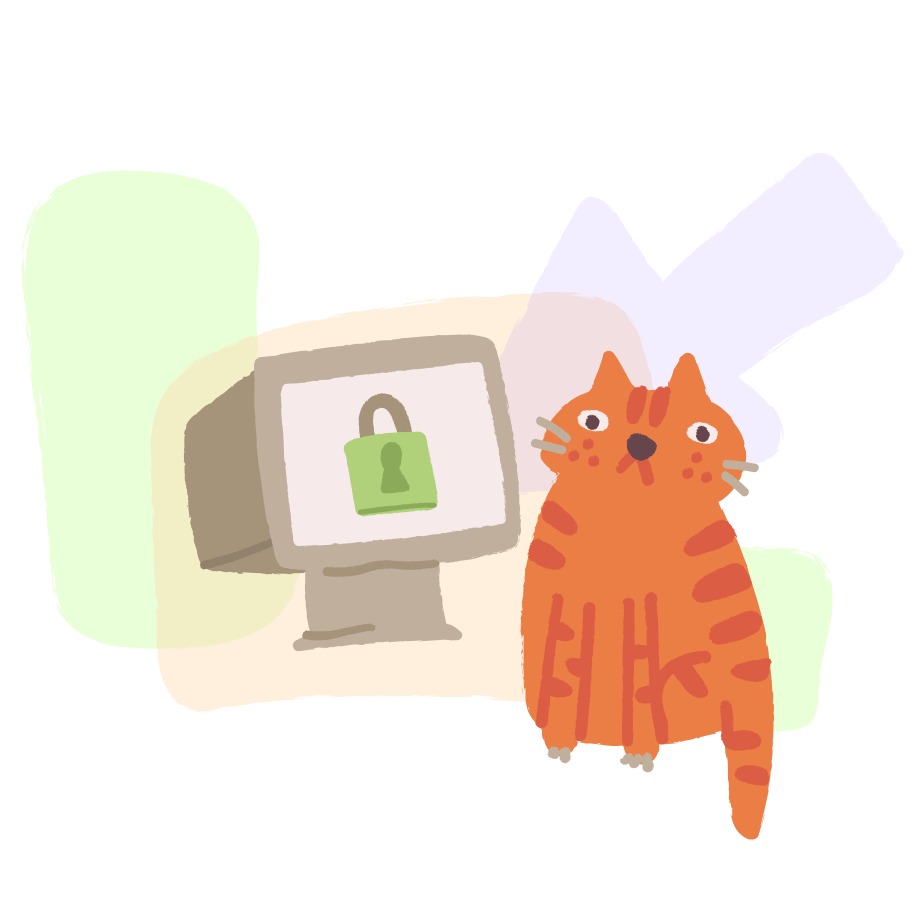
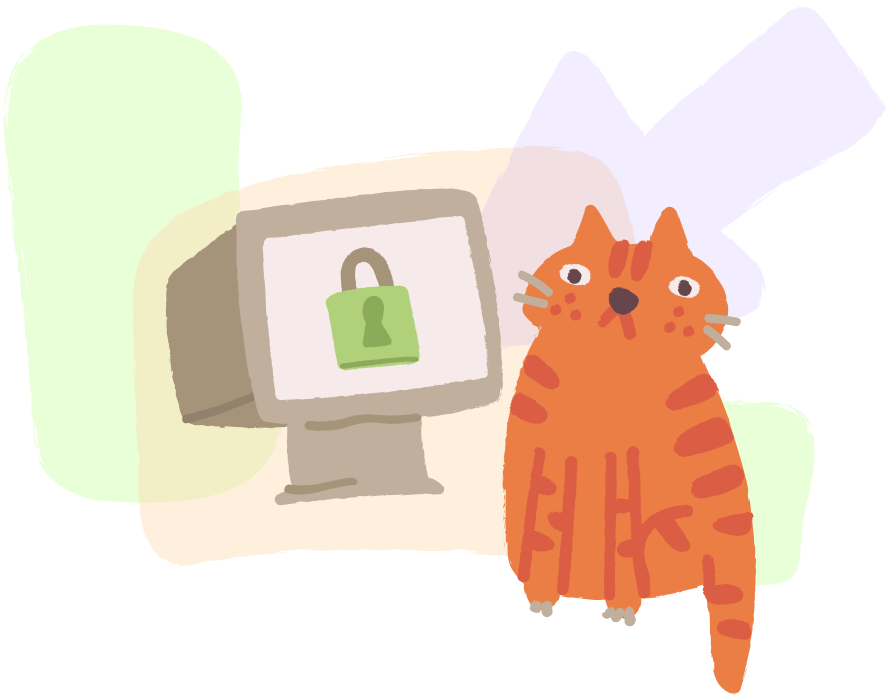
Signup Screen Ready

Changed region(s): [[0.0, 0.0302, 0.9122, 0.9957], [0.9122, 0.6336, 0.9426, 0.694], [0.6993, 0.6336, 0.7297, 0.6638]]

diff --git a/lib/screens/auth/Signup.dart b/lib/screens/auth/Signup.dart
@@ -1,0 +1,143 @@
+import 'package:flutter/gestures.dart';
+import 'package:flutter/material.dart';
+
+class Signup extends StatefulWidget {
+  @override
+  _SignupState createState() => _SignupState();
+}
+
+class _SignupState extends State<Signup> {
+  TextStyle defaultStyle = TextStyle(color: Colors.grey, fontSize: 15.0);
+  TextStyle linkStyle = TextStyle(color: Colors.orange);
+
+  @override
+  Widget build(BuildContext context) {
+    return Scaffold(
+      body: Container(
+        padding: EdgeInsets.symmetric(vertical: 20, horizontal: 30),
+        child: Column(
+          crossAxisAlignment: CrossAxisAlignment.start,
+          mainAxisAlignment: MainAxisAlignment.center,
+          children: <Widget>[
+            Text(
+              'Create Your Account ',
+              style: TextStyle(fontWeight: FontWeight.bold, fontSize: 30),
+            ),
+            SizedBox(
+              height: 10,
+            ),
+            Text(
+              'Sign up and get started',
+              style: TextStyle(fontWeight: FontWeight.w300, fontSize: 15),
+            ),
+            SizedBox(
+              height: 20,
+            ),
+            Center(
+              child: Image(
+                image: AssetImage('assets/images/signup.png'),
+                height: 300,
+              ),
+            ),
+            TextFormField(
+              decoration: InputDecoration(
+                icon: Icon(
+                  Icons.person,
+                  color: Colors.orange,
+                ),
+                labelText: "Name",
+                labelStyle: TextStyle(color: Colors.grey),
+                focusedBorder: UnderlineInputBorder(
+                  borderSide: BorderSide(color: Colors.orange),
+                ),
+              ),
+            ),
+            SizedBox(
+              height: 10,
+            ),
+            TextFormField(
+              decoration: InputDecoration(
+                icon: Icon(
+                  Icons.email,
+                  color: Colors.orange,
+                ),
+                labelText: "Email",
+                labelStyle: TextStyle(color: Colors.grey),
+                focusedBorder: UnderlineInputBorder(
+                  borderSide: BorderSide(color: Colors.orange),
+                ),
+              ),
+            ),
+            SizedBox(
+              height: 10,
+            ),
+            TextFormField(
+              obscureText: true,
+              decoration: InputDecoration(
+                icon: Icon(
+                  Icons.code,
+                  color: Colors.orange,
+                ),
+                labelText: 'Password',
+                labelStyle: TextStyle(color: Colors.grey),
+                focusedBorder: UnderlineInputBorder(
+                  borderSide: BorderSide(color: Colors.orange),
+                ),
+              ),
+            ),
+            SizedBox(
+              height: 10,
+            ),
+            TextFormField(
+              obscureText: true,
+              decoration: InputDecoration(
+                icon: Icon(
+                  Icons.code,
+                  color: Colors.orange,
+                ),
+                labelText: 'Confirm Password',
+                labelStyle: TextStyle(color: Colors.grey),
+                focusedBorder: UnderlineInputBorder(
+                  borderSide: BorderSide(color: Colors.orange),
+                ),
+              ),
+            ),
+            SizedBox(
+              height: 20,
+            ),
+            Center(
+              child: RaisedButton(
+                onPressed: () {},
+                child: Text(
+                  "Sign up",
+                  style: TextStyle(fontSize: 15),
+                ),
+                textColor: Colors.white,
+                padding: EdgeInsets.symmetric(vertical: 10, horizontal: 30),
+                color: Colors.orange,
+              ),
+            ),
+            SizedBox(
+              height: 10,
+            ),
+            Center(
+              child: RichText(
+                text: TextSpan(
+                  style: defaultStyle,
+                  children: <TextSpan>[
+                    TextSpan(text: "Already have an account? "),
+                    TextSpan(
+                      text: 'Log in',
+                      style: linkStyle,
+                      recognizer: TapGestureRecognizer()..onTap = () {},
+                    ),
+                  ],
+                ),
+              ),
+            )
+          ],
+        ),
+      ),
+    );
+  }
+}

diff --git a/lib/main.dart b/lib/main.dart
@@ -1,5 +1,5 @@
 import 'package:flutter/material.dart';
-import 'package:viewster/screens/auth/Signin.dart';
+import 'package:viewster/screens/auth/Signup.dart';
 
 void main() {
   runApp(MyApp());
@@ -13,6 +13,6 @@ class MyApp extends StatelessWidget {
         theme: ThemeData(
           primarySwatch: Colors.blue,
         ),
-        home: Signin());
+        home: Signup());
   }
 }
